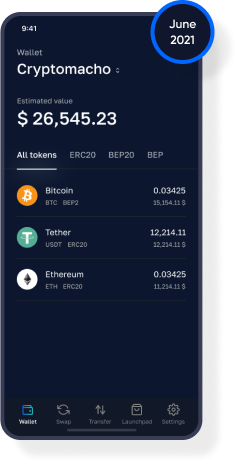
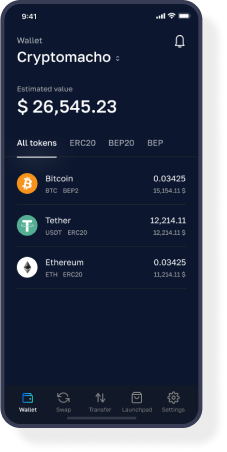
fix one

diff --git a/css/style.css b/css/style.css
@@ -195,7 +195,6 @@ p {
   font-style: normal;
   font-size: 17px;
   line-height: 1.4;
-  font-variant: small-caps;
   color: #FFFFFF;
   width: 230px;
   height: 40px;
@@ -294,14 +293,27 @@ section {
     font-size: 17px;
     line-height: 1.4;
     color: #FFFFFF;
-    margin-bottom: 42px;
+    margin-bottom: 40px;
     margin-top: 25px; }
+    @media (max-width: 768px) {
+      .column-one .caption {
+        display: -webkit-box;
+        display: -ms-flexbox;
+        display: flex;
+        -webkit-box-orient: vertical;
+        -webkit-box-direction: normal;
+        -ms-flex-direction: column;
+        flex-direction: column; } }
     .column-one .caption span {
       font-family: 'Gilroy', sans-serif;
       font-size: 15px;
       line-height: 17px;
       color: rgba(255, 255, 255, 0.64);
-      margin-left: 15px; }
+      margin-left: 13px; }
+      @media (max-width: 768px) {
+        .column-one .caption span {
+          margin-left: 0;
+          margin-top: 12px; } }
   .column-one .column__list {
     display: -webkit-box;
     display: -ms-flexbox;
@@ -355,7 +367,7 @@ section {
           font-style: normal;
           font-weight: normal;
           font-size: 15px;
-          line-height: 17px;
+          line-height: 24px;
           color: rgba(255, 255, 255, 0.64);
           margin: 0;
           text-align: left; }
@@ -365,6 +377,43 @@ section {
   @media (max-width: 768px) {
     .column-two {
       display: none; } }
+  .column-two .img {
+    position: relative;
+    width: 100%;
+    max-width: 227px; }
+    .column-two .img img {
+      width: 100%; }
+    .column-two .img:before {
+      content: 'June 2021';
+      position: absolute;
+      right: 0;
+      top: 0;
+      -webkit-transform: translate(-10px, -10px);
+      -ms-transform: translate(-10px, -10px);
+      transform: translate(-10px, -10px);
+      background: #10172D;
+      border: 4px solid #0066FF;
+      -webkit-box-sizing: border-box;
+      box-sizing: border-box;
+      -webkit-box-shadow: 16px 16px 8px rgba(0, 0, 0, 0.08);
+      box-shadow: 16px 16px 8px rgba(0, 0, 0, 0.08);
+      border-radius: 100%;
+      width: 64px;
+      height: 64px;
+      font-family: "Gilroy-Semibold", sans-serif;
+      font-style: normal;
+      font-weight: 600;
+      font-size: 12px;
+      line-height: 1.33;
+      display: -webkit-box;
+      display: -ms-flexbox;
+      display: flex;
+      -webkit-box-align: center;
+      -ms-flex-align: center;
+      align-items: center;
+      text-align: center;
+      color: #FFFFFF;
+      padding: 0 5px; }
 
 .lang-box {
   display: -webkit-box;

diff --git a/scss/style.scss b/scss/style.scss
@@ -327,7 +327,6 @@ p {
   font-style: normal;
   font-size: 17px;
   line-height: 1.4;
-  font-variant: small-caps;
   color: #FFFFFF;
   width: 230px;
   height: 40px;
@@ -439,15 +438,30 @@ section {
     font-size: 17px;
     line-height: 1.4;
     color: #FFFFFF;
-    margin-bottom: 42px;
+    margin-bottom: 40px;
     margin-top: 25px;
+
+    @media (max-width: 768px) {
+      display: -webkit-box;
+      display: -ms-flexbox;
+      display: flex;
+      -webkit-box-orient: vertical;
+      -webkit-box-direction: normal;
+      -ms-flex-direction: column;
+      flex-direction: column;
+    }
 
     span {
       font-family: 'Gilroy', sans-serif;
       font-size: 15px;
       line-height: 17px;
       color: rgba(255, 255, 255, 0.64);
-      margin-left: 15px;
+      margin-left: 13px;
+
+      @media (max-width: 768px) {
+        margin-left: 0;
+        margin-top: 12px;
+      }
     }
   }
 
@@ -516,7 +530,7 @@ section {
           font-style: normal;
           font-weight: normal;
           font-size: 15px;
-          line-height: 17px;
+          line-height: 24px;
           color: rgba(255, 255, 255, 0.64);
           margin: 0;
           text-align: left;
@@ -531,6 +545,49 @@ section {
 
   @media (max-width: 768px) {
     display: none;
+  }
+
+  .img {
+    position: relative;
+    width: 100%;
+    max-width: 227px;
+
+    img {
+      width: 100%;
+    }
+
+    &:before {
+      content: 'June 2021';
+      position: absolute;
+      right: 0;
+      top: 0;
+      -webkit-transform: translate(-10px, -10px);
+      -ms-transform: translate(-10px, -10px);
+      transform: translate(-10px, -10px);
+      background: #10172D;
+      border: 4px solid #0066FF;
+      -webkit-box-sizing: border-box;
+      box-sizing: border-box;
+      -webkit-box-shadow: 16px 16px 8px rgba(0, 0, 0, 0.08);
+      box-shadow: 16px 16px 8px rgba(0, 0, 0, 0.08);
+      border-radius: 100%;
+      width: 64px;
+      height: 64px;
+      font-family: 'Gilroy-Semibold', sans-serif ;
+      font-style: normal;
+      font-weight: 600;
+      font-size: 12px;
+      line-height: 1.33;
+      display: -webkit-box;
+      display: -ms-flexbox;
+      display: flex;
+      -webkit-box-align: center;
+      -ms-flex-align: center;
+      align-items: center;
+      text-align: center;
+      color: #FFFFFF;
+      padding: 0 5px;
+    }
   }
 }
 

diff --git a/index.html b/index.html
@@ -92,7 +92,9 @@
                 </div>
             </div>
             <div class="column-two">
-                <img src="img/plug.png" alt="">
+                <div class="img">
+                    <img src="img/plug.png" alt="">
+                </div>
             </div>
         </div>
 
